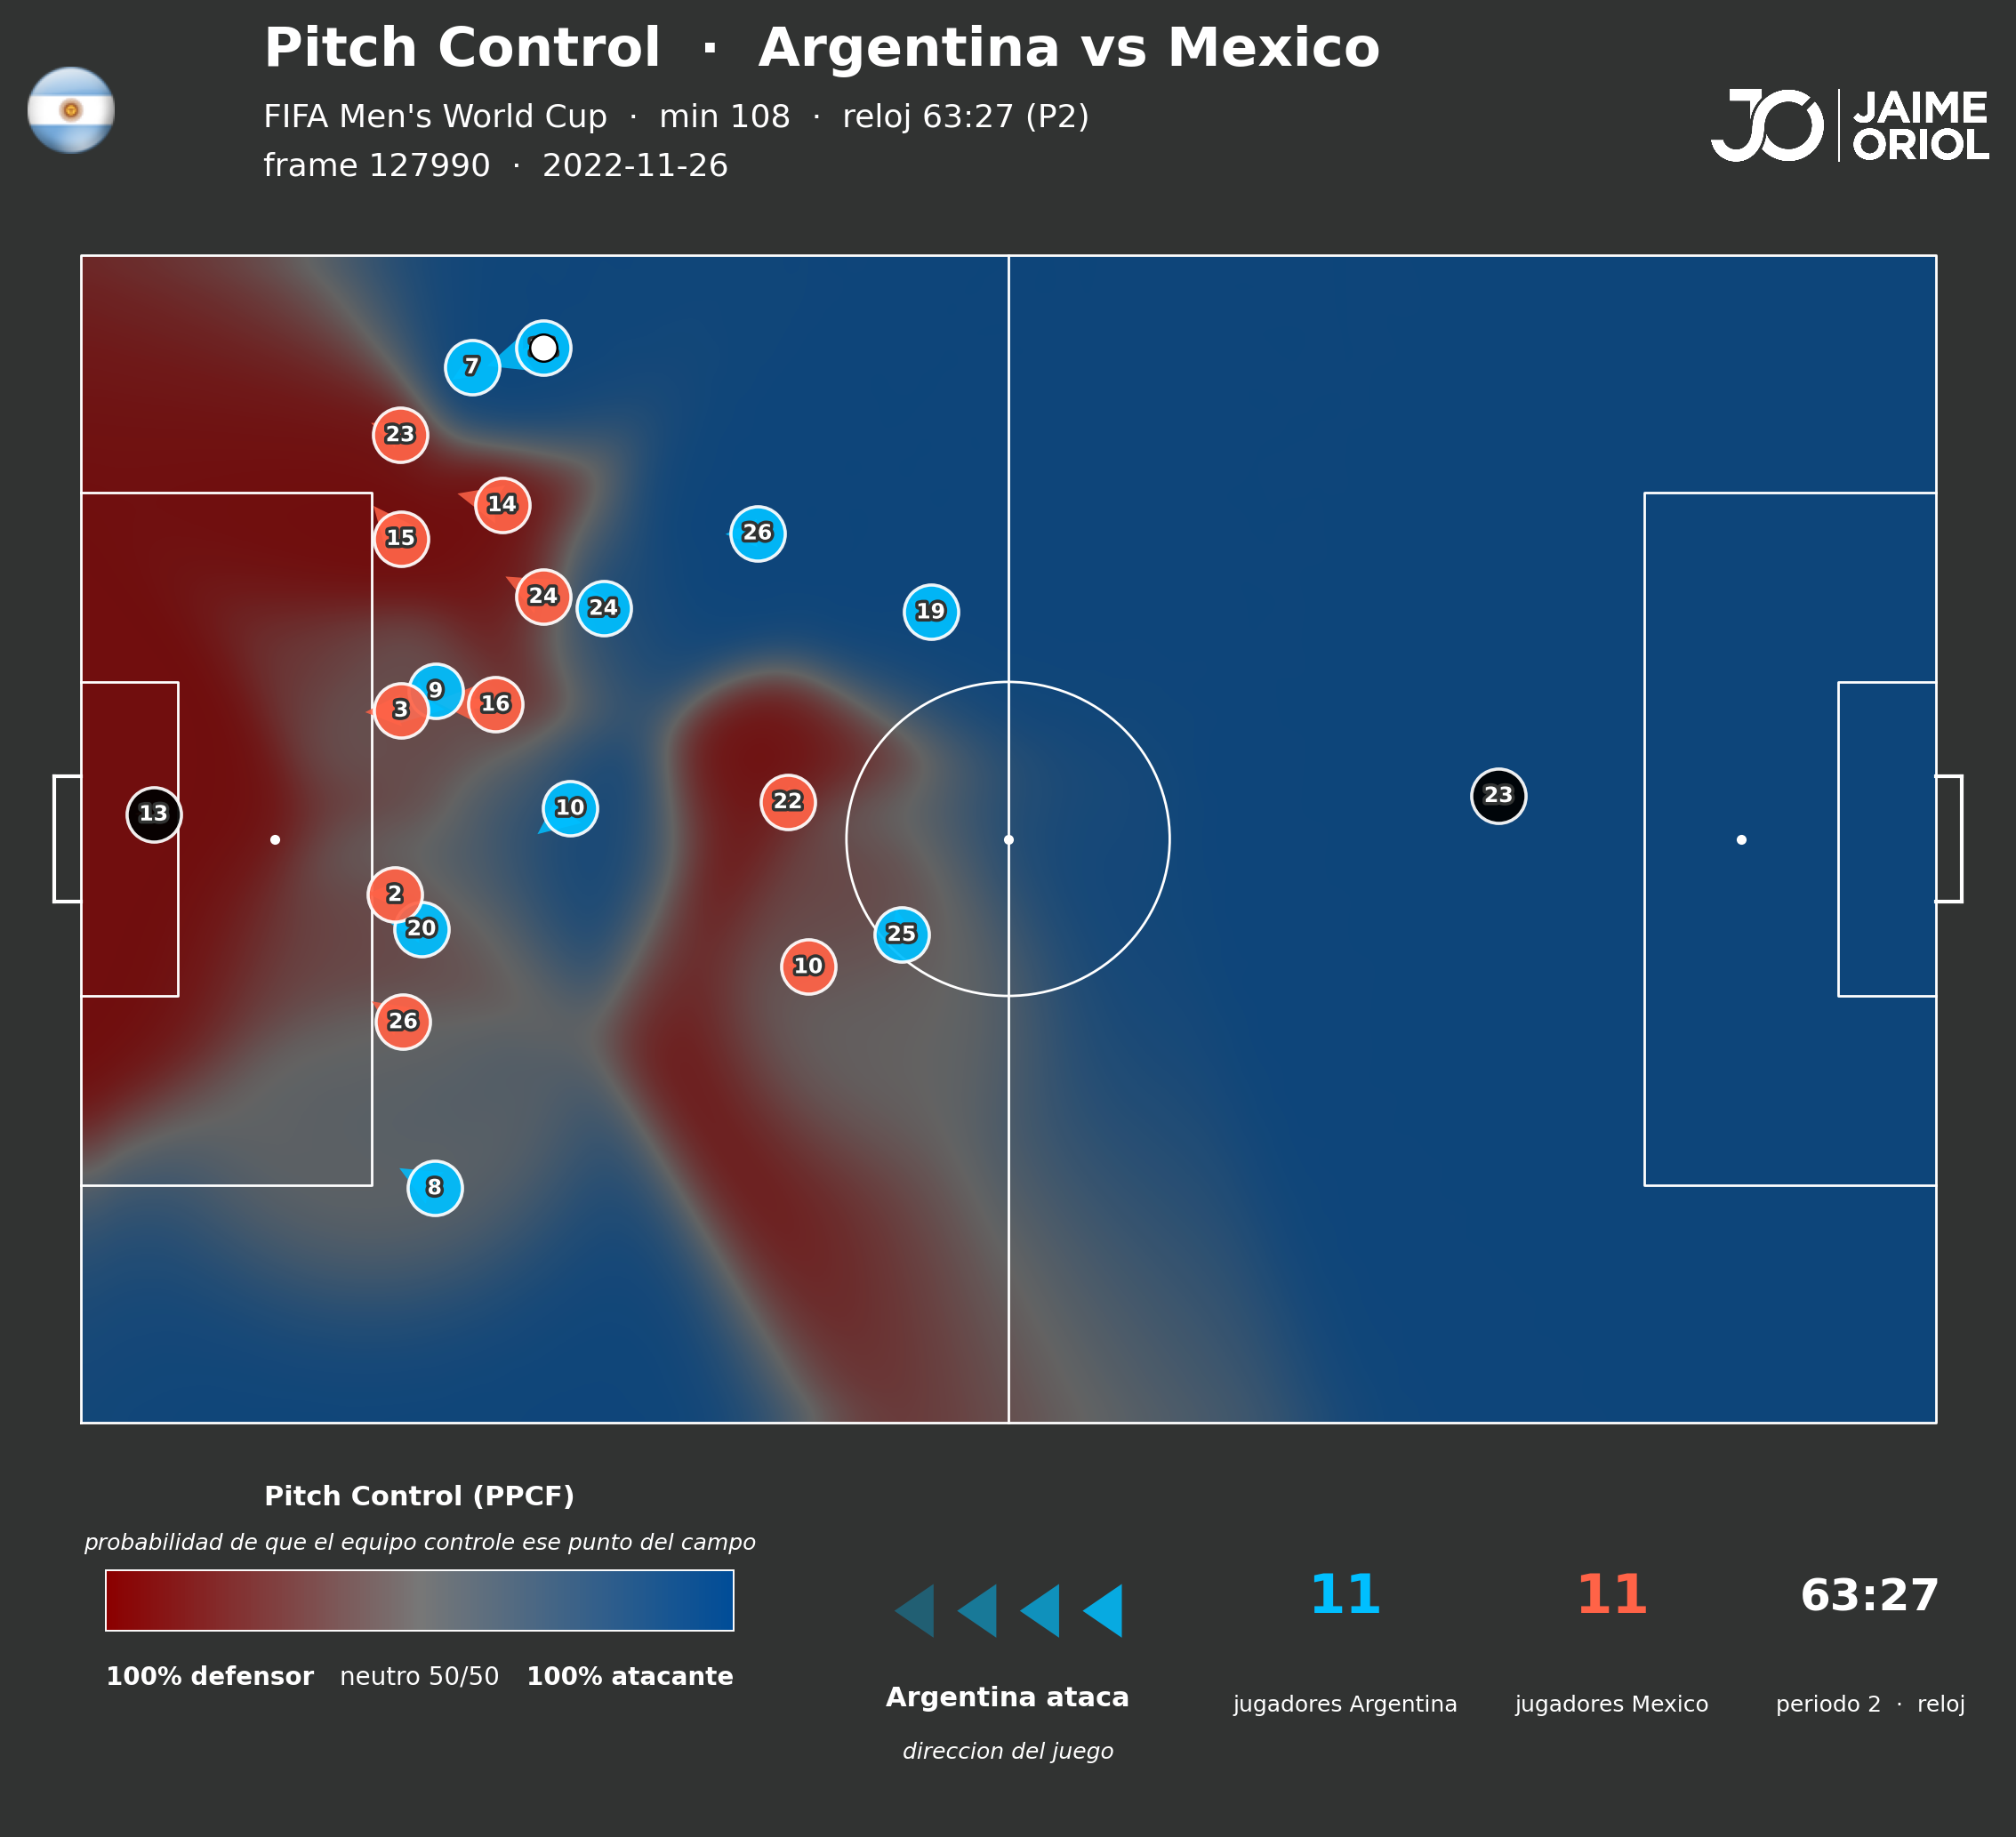
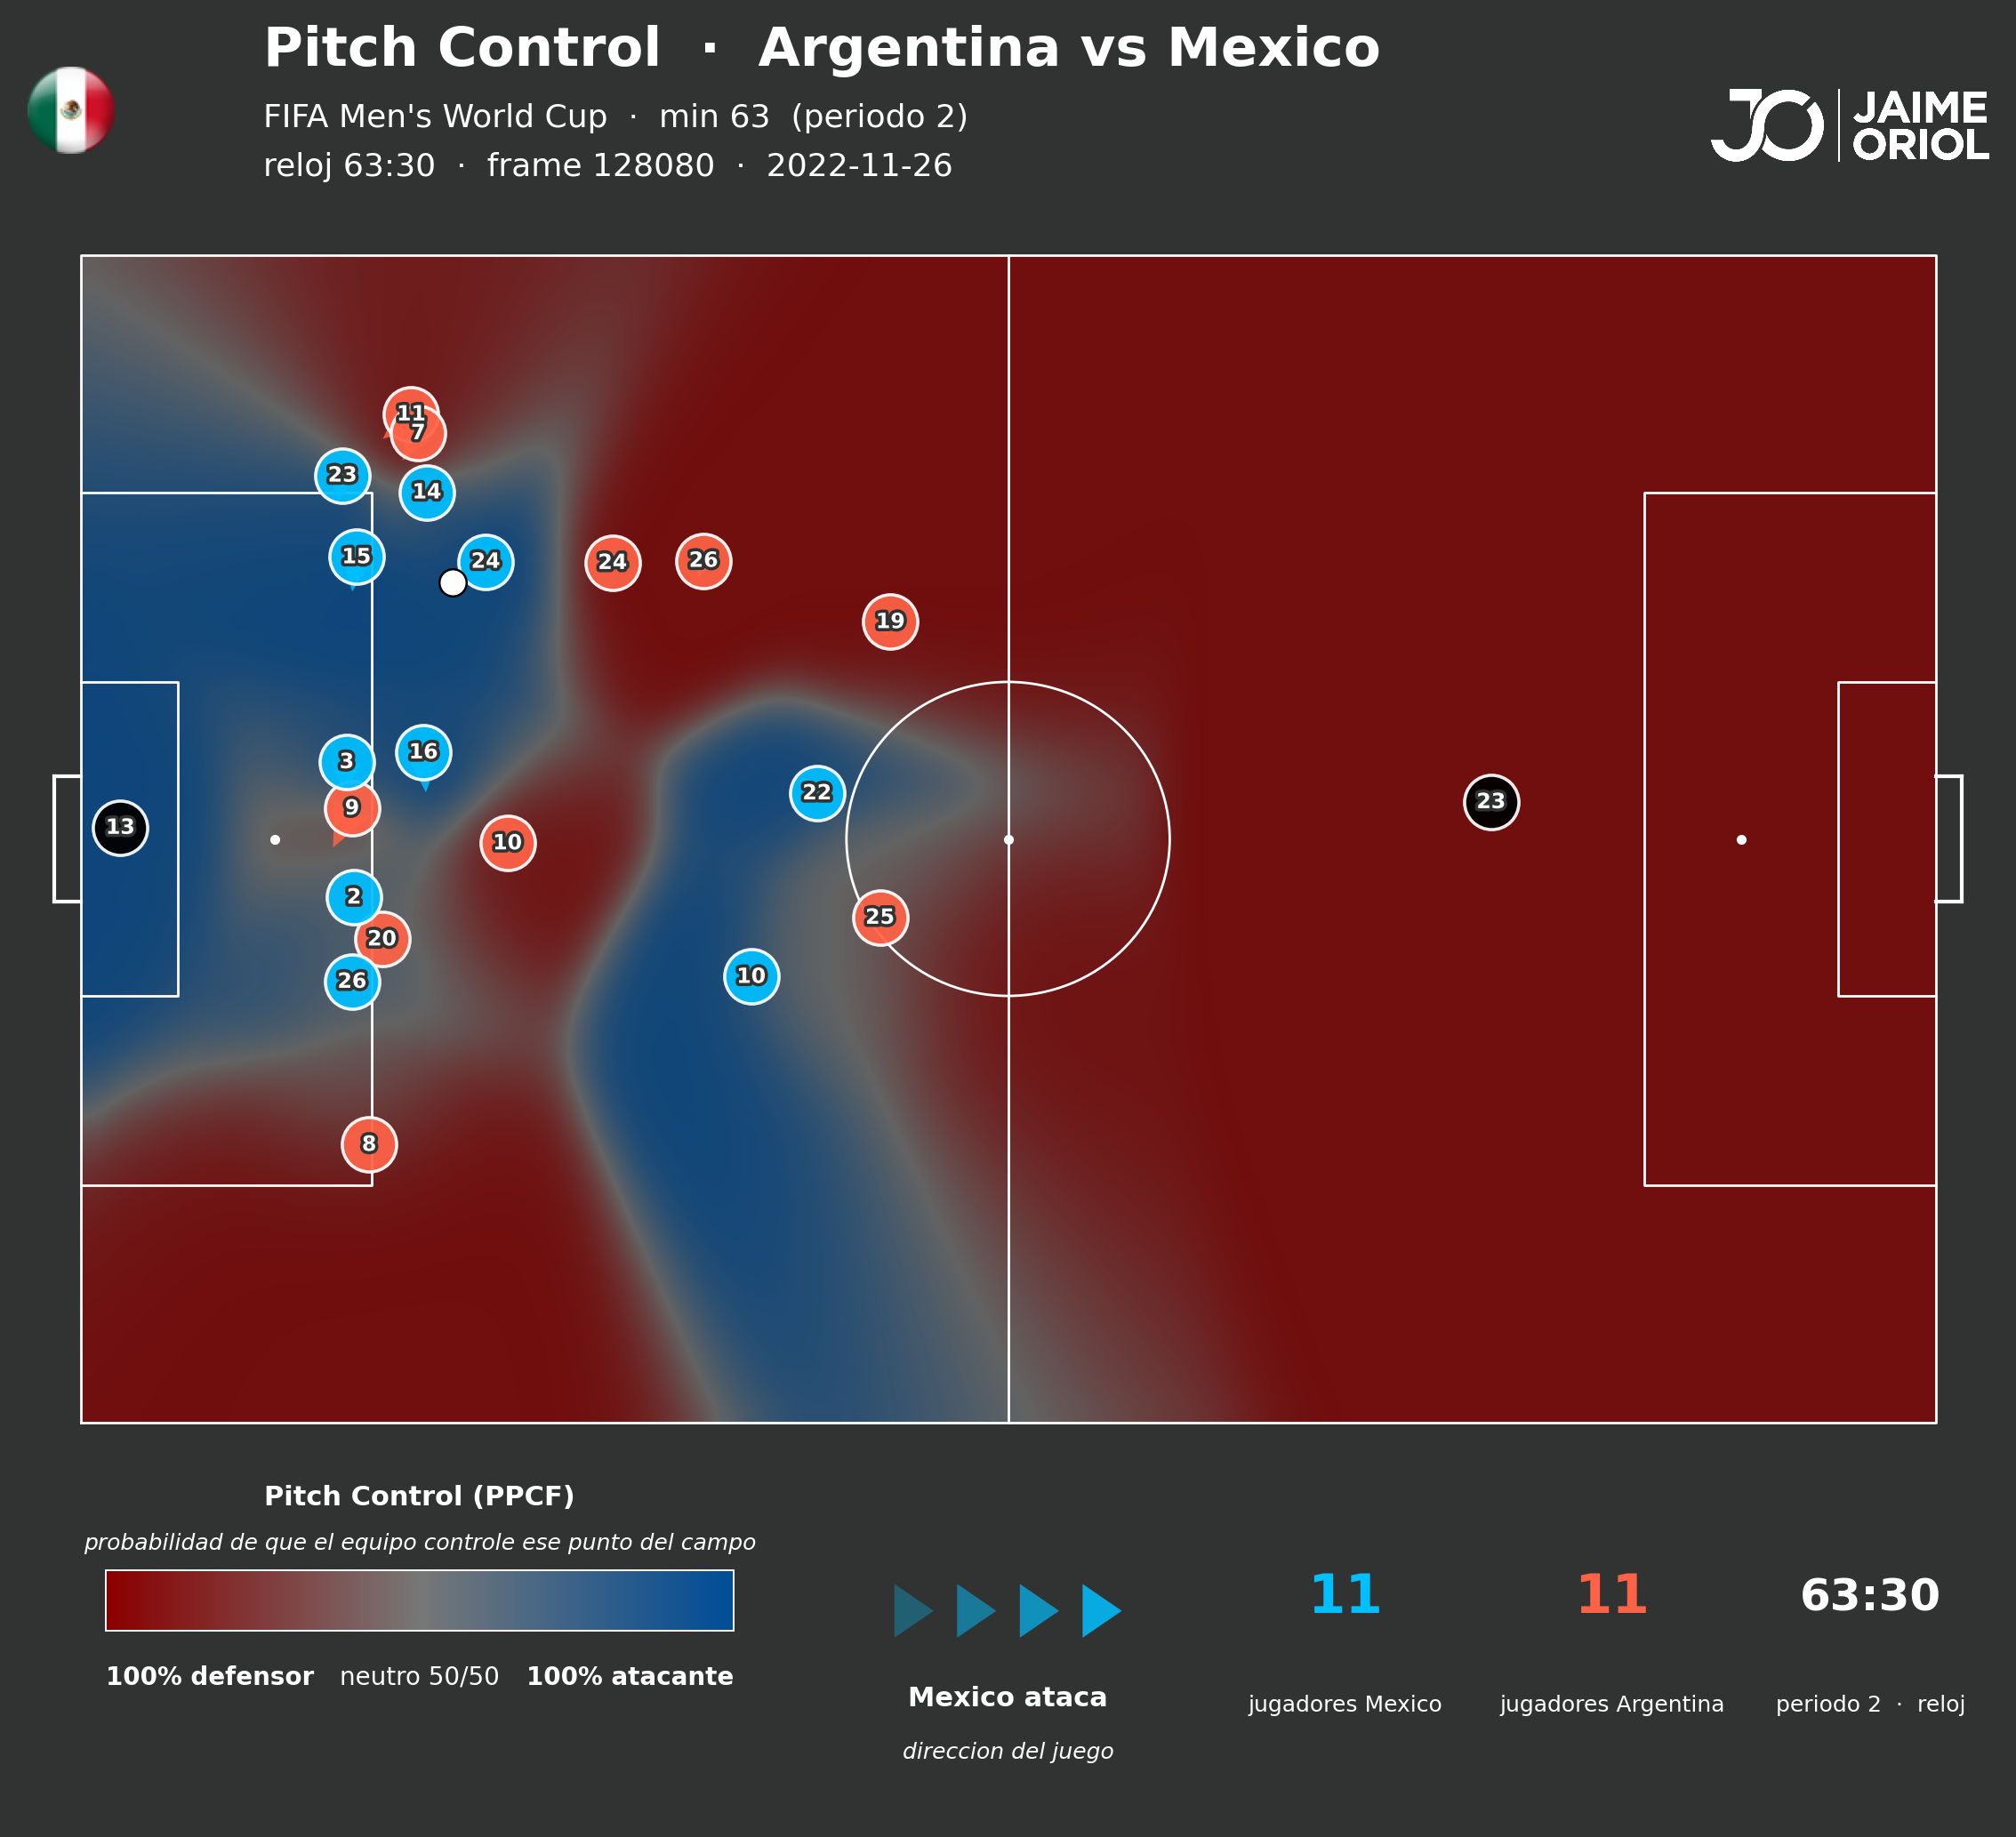
PPCF default min 63.5 (frame con balon, buildup gol Messi)

diff --git a/src/viz/ppcf.py b/src/viz/ppcf.py
@@ -484,7 +484,7 @@ if __name__ == "__main__":
         mid = int(sys.argv[1]); match_min = float(sys.argv[2])
         slug = f"{mid}_min{int(match_min)}"
     else:
-        mid, match_min = 3835, 63
+        mid, match_min = 3835, 63.5    # ARG-MEX, buildup ~3s antes gol Messi
         slug = "messi_arg_mex"
     # periodGameClockTime es ABSOLUTO al partido; periodo se infiere
     md = load_metadata(mid).row(0, named=True)